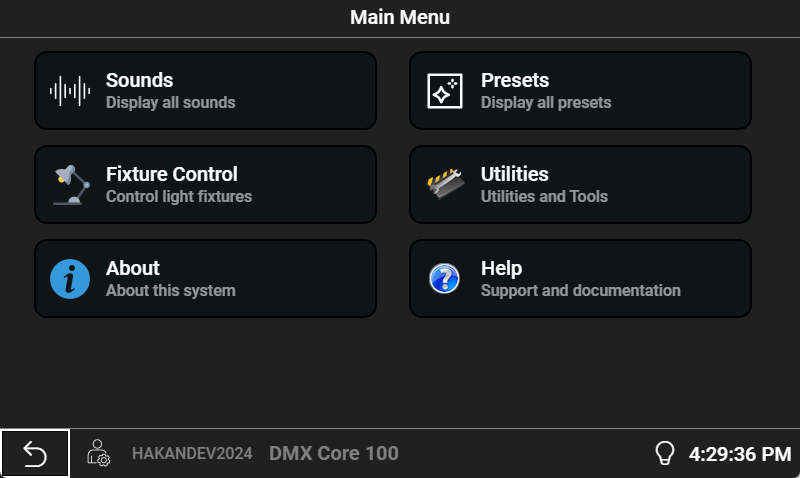
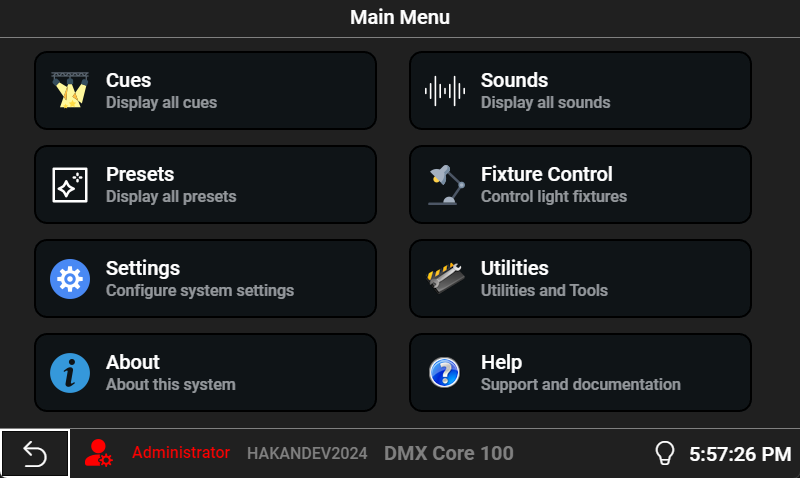
Doc updates

diff --git a/src/content/docs/dmx-core-100/lighting/effects.md b/src/content/docs/dmx-core-100/lighting/effects.md
@@ -5,9 +5,7 @@ description: Apply dynamic lighting effects to fixtures and zones
 
 The effects engine lets you apply dynamic, animated lighting effects to your fixtures. Effects run continuously, creating patterns like breathing, fire, pulsing, and more — without needing to record cues.
 
-:::tip[Web UI only]
-Effects are managed in the Web UI under **Lighting > Effects**. Effects can be previewed and assigned to presets for use from both the touchscreen and the Web UI.
-:::
+Effects are accessed through **Fixture Control** — select a fixture or zone and apply an effect from there. If you have multiple zones configured, each zone has its own effects controls.
 
 <!-- SCREENSHOT: Web UI Effects list page (dark mode) -->
 
@@ -27,31 +25,17 @@ The DMX Core 100 includes several built-in effect generators:
 
 Each generator has configurable parameters that control speed, intensity, and behavior.
 
-## Creating an Effect
+## Applying Effects
 
-1. Go to **Lighting > Effects** in the Web UI
-2. Click **Add** to create a new effect
-3. Select an **Effect Generator** from the list
-4. Configure the effect parameters (speed, intensity, etc.)
-5. Click **Save**
+Open **Fixture Control** and select the fixture or zone you want to animate. The effects controls appear in the panel. Choose a generator, configure the parameters, and the effect starts immediately.
+
+If you have multiple zones, effects can be applied per zone — navigate to a zone in the Fixture Control page to see its effects controls.
 
 <!-- SCREENSHOT: Web UI effect editor with generator selection and parameters (dark mode) -->
 
-## Previewing Effects
-
-You can preview an effect before applying it to your fixtures. Click the **Preview** button on the effect detail page to see the effect in action on the selected fixtures.
-
-## Applying Effects
-
-Effects can be applied at different levels:
-
-- **Global** — Apply an effect to all fixtures
-- **Zone** — Apply an effect to all fixtures within a specific [zone](/dmx-core-100/lighting/zones)
-- **Fixture** — Apply an effect to an individual fixture
-
 ### Effect Assignment via Presets
 
-The most common way to use effects is by assigning them to a [preset](/dmx-core-100/playback/presets). When the preset is activated, the effect starts running. When the preset is stopped, the effect stops.
+Effects can be saved as part of a [preset](/dmx-core-100/playback/presets). When the preset is activated, the effect starts running. When the preset is stopped, the effect stops. This is the main way to trigger effects from the touchscreen or via schedules and external control.
 
 ## Effect Dimmer
 

diff --git a/src/content/docs/dmx-core-100/lighting/fixture-control.md b/src/content/docs/dmx-core-100/lighting/fixture-control.md
@@ -5,9 +5,7 @@ description: Interactively control fixture colors, dimmers, and more
 
 The Fixture Control page provides real-time interactive control over your configured fixtures. You can adjust colors, dimmers, pan/tilt, and other fixture functions directly from the Web UI.
 
-:::tip[Web UI only]
-Fixture Control is available in the Web UI under **Lighting > Fixture Control**. The touchscreen provides a basic fixture list under **Main Menu > Utilities**, but interactive control is a Web UI feature.
-:::
+Fixture Control is available on both the **touchscreen** (Main Menu > Fixture Control) and the **Web UI** (Lighting > Fixture Control). The Web UI provides additional capabilities including the effects engine and detailed per-fixture editing.
 
 <!-- SCREENSHOT: Web UI Fixture Control page showing color picker and fixture list (dark mode) -->
 
@@ -33,6 +31,10 @@ When you adjust a fixture's properties through Fixture Control, these are applie
 :::note
 Modifiers are temporary adjustments. To save a fixture state permanently, create a [Preset](/dmx-core-100/playback/presets).
 :::
+
+## Effects
+
+The Fixture Control page also gives access to the [effects engine](/dmx-core-100/lighting/effects). Select a fixture or zone and use the effects controls to apply animated lighting effects — breathing, fire, pulsing, and more. If multiple zones are configured, each zone has independent effects controls.
 
 ## Fade Speed
 

diff --git a/src/content/docs/dmx-core-100/playback/cues.md b/src/content/docs/dmx-core-100/playback/cues.md
@@ -9,7 +9,11 @@ Cues are recorded DMX sequences (shows) that can be played back on demand, on a 
 
 On the **touchscreen**, navigate to **Main Menu > Cues** to see the list. Tap a cue to instantly start playback. Long-hold a cue to access its settings.
 
-![Cues list](https://github.com/DMXCore/DmxCore100/assets/407941/301c68c9-e8e3-4e28-ad8e-aa1bfa84f8cb)
+![Cues list](/assets/device/cues-list.png)
+
+The top bar expands to show playback controls — tap the arrow to toggle it. Controls include global Fade Out, Stop, and adjustable Loop, Fade In, and Fade Out settings.
+
+![Cues list with playback controls expanded](/assets/device/cues-list-controls.png)
 
 In the **Web UI**, go to **Lighting > Cues**. The list view shows additional details including duration and file size. Click a cue name to open its detail page, or use the play button to start playback directly from the list.
 
@@ -22,7 +26,11 @@ In the **Web UI**, go to **Lighting > Cues**. The list view shows additional det
 
 ## Cue Settings
 
-![Cue settings](https://github.com/DMXCore/DmxCore100/assets/407941/894bb4c4-7262-40f5-a259-ce9d88f1e65d)
+Long-hold a cue on the touchscreen to open its settings. The settings page scrolls to show all fields and actions.
+
+![Cue settings — fields](/assets/device/cue-settings.png)
+
+![Cue settings — actions](/assets/device/cue-settings-actions.png)
 
 Each cue has the following settings:
 

diff --git a/src/content/docs/dmx-core-100/playback/presets.md b/src/content/docs/dmx-core-100/playback/presets.md
@@ -9,7 +9,11 @@ Presets are saved snapshots of DMX fixture states — colors, dimmers, positions
 
 On the **touchscreen**, navigate to **Main Menu > Presets**. Tap a preset to activate it. If a cue is playing, it will be stopped when a preset is selected. Long-hold for settings.
 
-![Presets list](https://github.com/DMXCore/DmxCore100/assets/407941/c91d7ffb-b6b1-46f3-bc31-5f83bbbf8867)
+![Presets list](/assets/device/presets-list.png)
+
+The top bar expands to show global controls — tap the arrow to toggle it. Controls include Fade to Black, Fade to 100%, master Dimmer level, and Fade Speed.
+
+![Presets list with controls expanded](/assets/device/presets-list-controls.png)
 
 In the **Web UI**, go to **Lighting > Presets**. Click the play icon to activate, or click the preset name to open its detail page for editing.
 
@@ -30,7 +34,7 @@ A preset with a single universe will be output to all configured universes when 
 
 ## Preset Settings
 
-![Preset settings](https://github.com/DMXCore/DmxCore100/assets/407941/187bc4ff-33f9-4cd6-8a12-eebfc8ff1f56)
+![Preset settings](/assets/device/preset-settings.png)
 
 - **Code** — Unique identifier for API and external control
 - **Name** — Display name

diff --git a/src/content/docs/dmx-core-100/playback/recording.md b/src/content/docs/dmx-core-100/playback/recording.md
@@ -9,13 +9,13 @@ The DMX Core 100 can record DMX data from external sources (lighting software, c
 
 Navigate to **Main Menu > Utilities > Record**.
 
-![Recording screen](https://github.com/DMXCore/DmxCore100/assets/407941/7ac45aca-0ddc-442c-a28c-b06ac0ee0a0c)
+![Record Cue screen](/assets/device/record-cue.png)
 
 1. Press **Preview** to start listening for ArtNet or sACN packets (depending on output configuration). The universe IDs are taken from the output configuration. Any active playback will be stopped.
 
 2. You'll see a graphical representation of all the DMX channels per universe during preview:
 
-![DMX channel preview](https://github.com/DMXCore/DmxCore100/assets/407941/e7ec4b68-f3d3-478c-bbce-c35101c30d52)
+![Record Cue — previewing with DMX channel monitor](/assets/device/record-cue-preview.png)
 
 3. While previewing, choose what to record:
    - **Preset** — Captures a single snapshot of the current DMX state

diff --git a/src/content/docs/dmx-core-100/getting-started/main-menu.md b/src/content/docs/dmx-core-100/getting-started/main-menu.md
@@ -4,29 +4,25 @@ title: Main Menu
 
 ![Main Menu](/assets/device/main-menu.png)
 
-#### Patterns
-
-Output built-in patterns to test the output configuration without having to create presets/cues.
-
 #### Cues
 
 Play back stored cues (shows).
 
+#### Sounds
+
+Play back audio files.
+
 #### Presets
 
-Static output of captured snapshots of DMX data.
+Activate saved fixture states.
+
+#### Fixture Control
+
+Control fixtures directly from the touchscreen.
 
 #### Settings
 
 Change host and output configuration settings like time zone, output protocol and more.
-
-#### Output Config
-
-Configure output settings like universe id, count and type of output.
-
-#### Schedules
-
-Set up recurring schedules for when different outputs should be activated.
 
 #### Utilities
 
@@ -35,6 +31,10 @@ Tools like recording snapshots and cues.
 #### About
 
 Display system information.
+
+#### Help
+
+Quick links to documentation.
 
 ---
 
